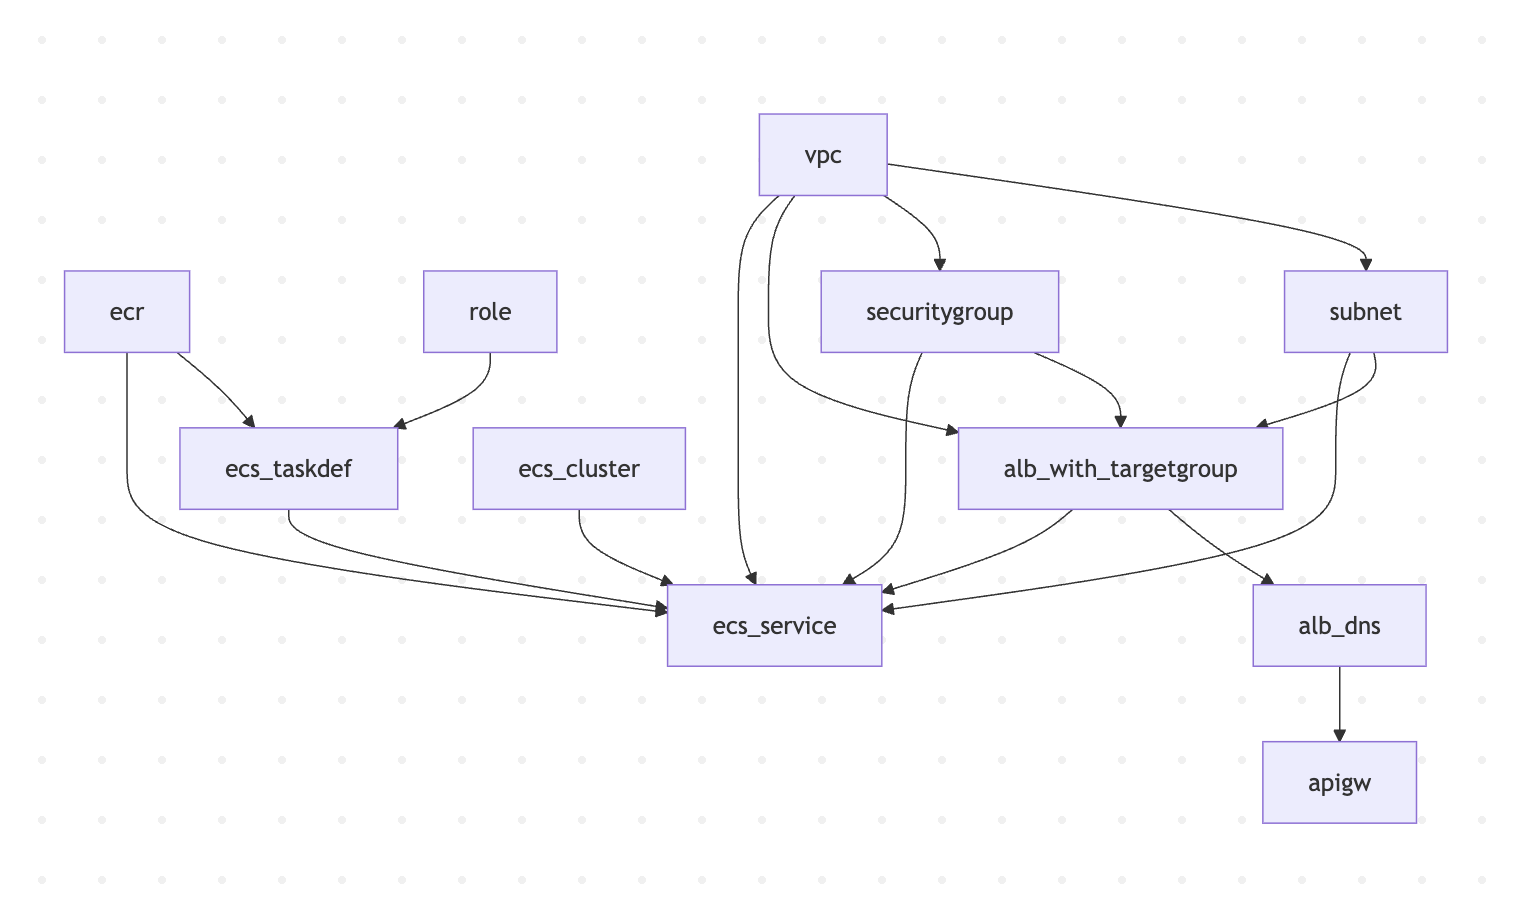
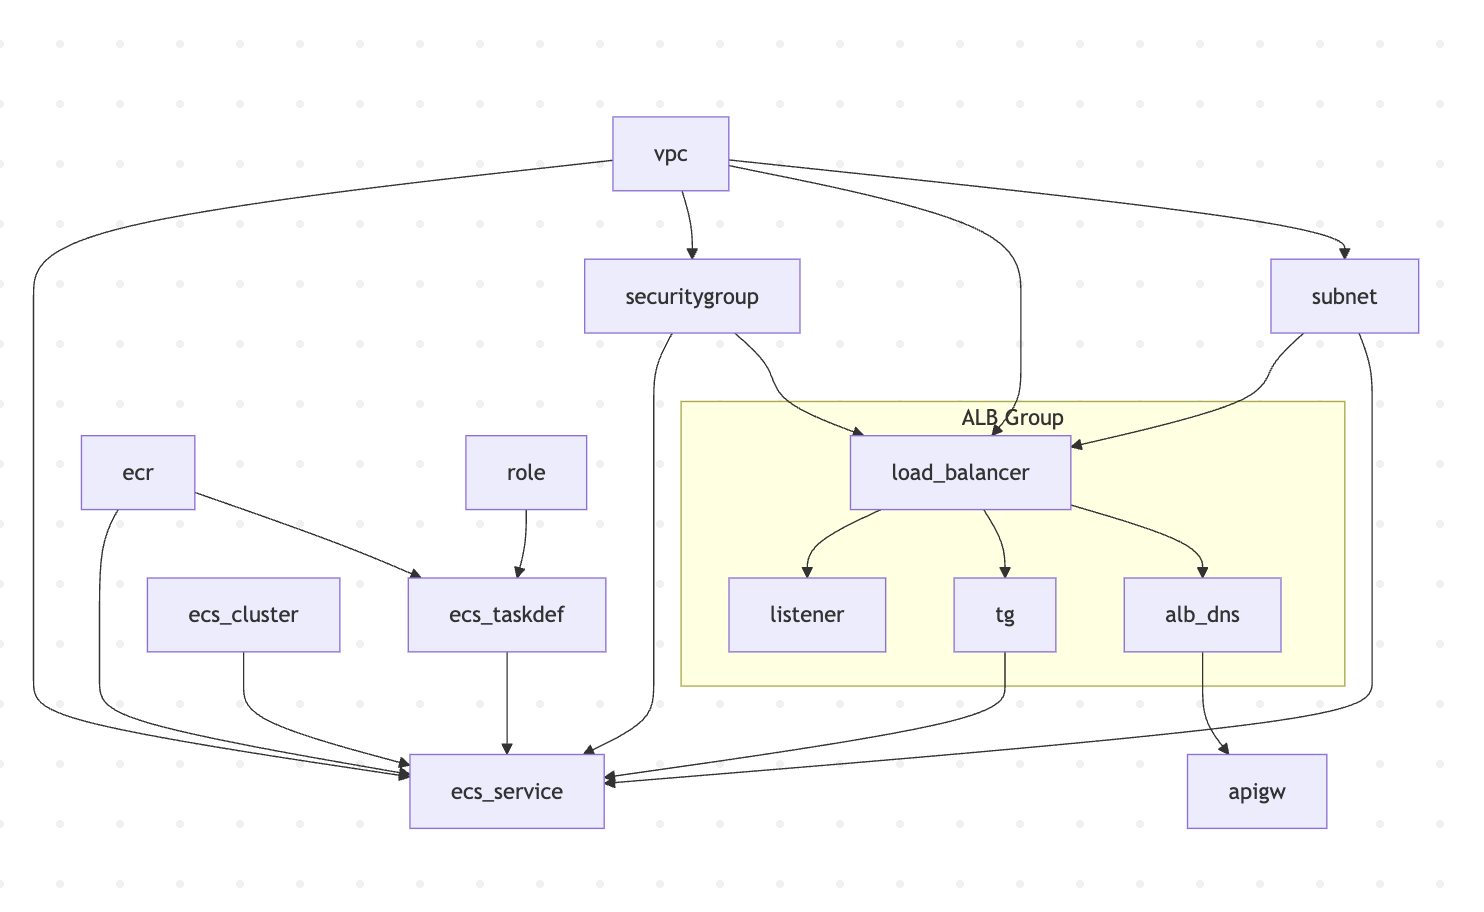
배포 의존성 차트 업데이트 MSA 이키텍처 업데이트

diff --git a/doc/msa_achitecture.md b/doc/msa_achitecture.md
@@ -1,0 +1,143 @@
+# Micro Service Architecture
+
+```d2
+direction: down
+
+Infra: {
+  label: "AWS Infrastructure"
+
+  INET: "Internet"
+
+  Traffic: {
+    label: "Traffic Management"
+    Route53: "Route 53"
+  }
+
+  CDN: {
+    label: "CDN"
+    CloudFront: "CloudFront"
+  }
+
+  API: {
+    label: "API Gateway"
+    APIGateway: "API Gateway"
+  }
+
+  NetworkLayer: {
+    label: "Network Layer"
+
+    VPC: {
+      label: "VPC Network"
+
+      IGW: "Internet Gateway"
+      RouteTable: "Route Table"
+      SecurityGroup: "Security Group"
+
+      IGW -> RouteTable
+      RouteTable -> SecurityGroup
+
+      Subnets: {
+        label: "Subnets"
+        Subnet1: "Subnet 1"
+        Subnet2: "Subnet 2"
+        Subnet3: "Subnet 3"
+      }
+
+      LoadBalancers: {
+        label: "Load Balancers"
+
+        LB1: {
+          label: "Load Balancer 1"
+          Listener1: "ELB Listener 1"
+          TargetGroup1: "Target Group 1"
+          Listener1 -> TargetGroup1
+        }
+
+        LB2: {
+          label: "Load Balancer 2"
+          Listener2: "ELB Listener 2"
+          TargetGroup2: "Target Group 2"
+          Listener2 -> TargetGroup2
+        }
+
+        LB3: {
+          label: "Load Balancer 3"
+          Listener3: "ELB Listener 3"
+          TargetGroup3: "Target Group 3"
+          Listener3 -> TargetGroup3
+        }
+      }
+
+      SecurityGroup -> Subnets
+      LoadBalancers.LB1.TargetGroup1 -> Subnets.Subnet1
+      LoadBalancers.LB2.TargetGroup2 -> Subnets.Subnet2
+      LoadBalancers.LB3.TargetGroup3 -> Subnets.Subnet3
+    }
+  }
+
+  Application: {
+    label: "Application Layer"
+
+    ECS: {
+      label: "ECS Cluster"
+
+      SRV1: {
+        label: "ECS Service 1"
+        Task1: "ECS Task 1"
+        Frontend: "Frontend"
+        Task1 -> Frontend
+      }
+
+      SRV2: {
+        label: "ECS Service 2"
+        Task2: "ECS Task 2"
+        API: "API Service"
+        Task2 -> API
+      }
+
+      SRV3: {
+        label: "ECS Service 3"
+        Task3: "ECS Task 3"
+        Data: "Data Service"
+        Task3 -> Data
+      }
+    }
+  }
+
+  # Subnet -> ECS Task 연결
+  NetworkLayer.VPC.Subnets.Subnet1 -> Application.ECS.SRV1.Task1
+  NetworkLayer.VPC.Subnets.Subnet2 -> Application.ECS.SRV2.Task2
+  NetworkLayer.VPC.Subnets.Subnet3 -> Application.ECS.SRV3.Task3
+
+  DATA: {
+    label: "Data Platform"
+
+    IoT: {
+      IoTCore: "IoT Core"
+      IoTRules: "IoT Rules"
+      IoTCore -> IoTRules
+    }
+
+    CW: "Cloud Watch"
+    IoT.IoTRules -> CW
+
+    Storage: {
+      S3: "S3 Bucket"
+      DynamoDB
+    }
+  }
+
+  AUTH: {
+    label: "Authentication"
+    CognitoUserPool: "Cognito User Pool"
+    CognitoIdentityPool: "Cognito Identity Pool"
+  }
+
+  # 주요 연동 관계
+  Application -> DATA
+  Application -> AUTH
+
+  INET -> Traffic.Route53 -> CDN.CloudFront -> API.APIGateway -> NetworkLayer.VPC.LoadBalancers
+  INET -> NetworkLayer.VPC.IGW
+}
+```

diff --git a/doc/infra_dependency.md b/doc/infra_dependency.md
@@ -6,15 +6,26 @@
 flowchart TD
 ecr --> ecs_taskdef
 role --> ecs_taskdef
-vpc --> subnet --> alb_with_targetgroup --> alb_dns --> apigw
-vpc --> securitygroup --> alb_with_targetgroup
-vpc --> alb_with_targetgroup
-alb_with_targetgroup --> ecs_service
+
+subnet --> ecs_service
+vpc --> subnet --> load_balancer
+
+subgraph alb [ALB Group]
+load_balancer --> alb_dns
+load_balancer --> tg
+load_balancer --> listener
+end
+
+alb_dns --> apigw
+vpc --> load_balancer
+vpc --> securitygroup --> load_balancer
+tg --> ecs_service
+
 ecs_cluster --> ecs_service
 ecs_taskdef --> ecs_service
-subnet --> ecs_service
 vpc --> ecs_service
 securitygroup --> ecs_service
 ecr --> ecs_service
+
 ```
 
